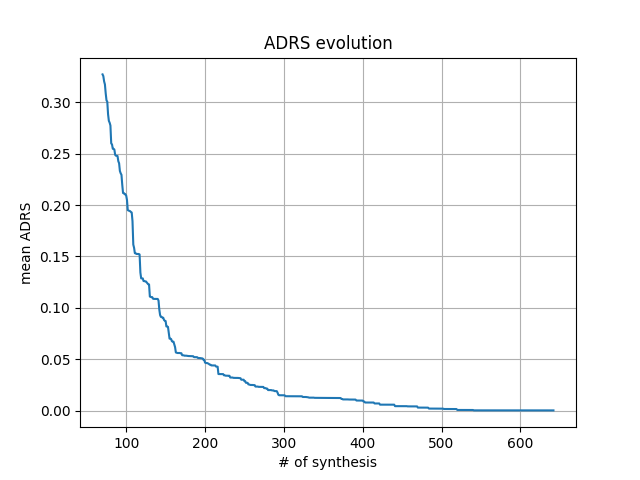
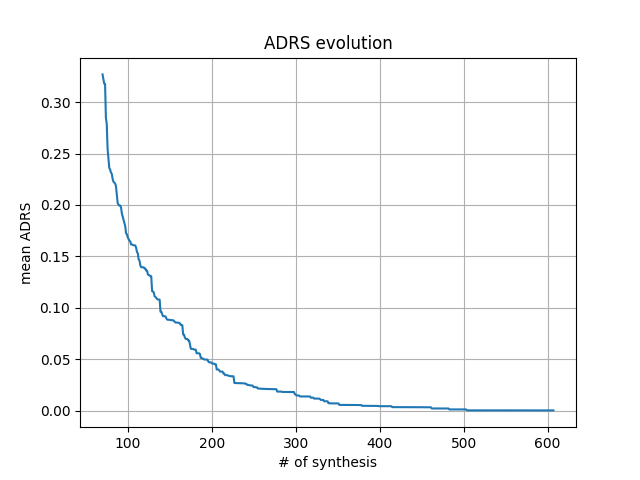
10.29

diff --git a/QL_MOEA_Package/QL_MOEA.py b/QL_MOEA_Package/QL_MOEA.py
@@ -197,15 +197,15 @@ class AMOEA_MAP_framework:
 
 
             if adrs < current_adrs:
-                next_state = 0
+                next_state = 1
                 update_q_table(state,action,10,next_state,Q_table)
-                state = 0
+                state = 1
                 action = choose_mu_action(state,Q_table)
 
             else:
-                next_state = 1
+                next_state = 2
                 update_q_table(state,action,0,next_state,Q_table)
-                state = 1
+                state = 2
                 action = choose_mu_action(state,Q_table)
 
 

diff --git a/QL_MOEA_Package/Main_Program.py b/QL_MOEA_Package/Main_Program.py
@@ -17,15 +17,15 @@ dirname, filename = os.path.split(os.path.abspath(__file__))
 package_path = dirname+'\\QL_MOEA_Package'
 sys.path.append(package_path)
 
-from AMOEA_MAP import Chromosome
-from AMOEA_MAP import AMOEA_MAP_framework
+from QL_MOEA import Chromosome
+from QL_MOEA import AMOEA_MAP_framework
 from MOO_functions_ import *
 
 start_time = time.time()  # 记录开始时间
 ### G E N E R A L    S E T T I N G S ###########################################
 arg = {
         "Population size" : 70,
-        "Genenration Max" : 200,
+        "Genenration Max" : 300,
     }
 
 
